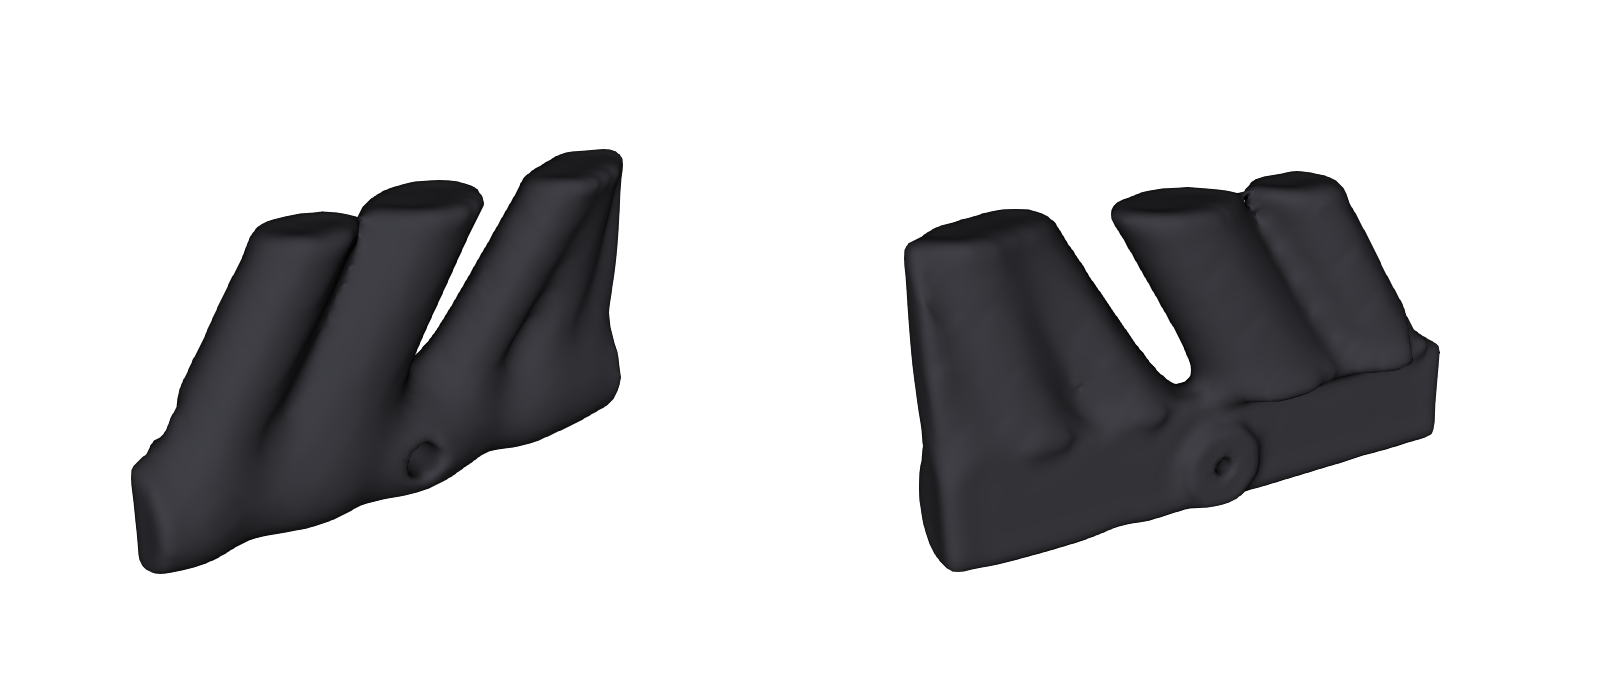
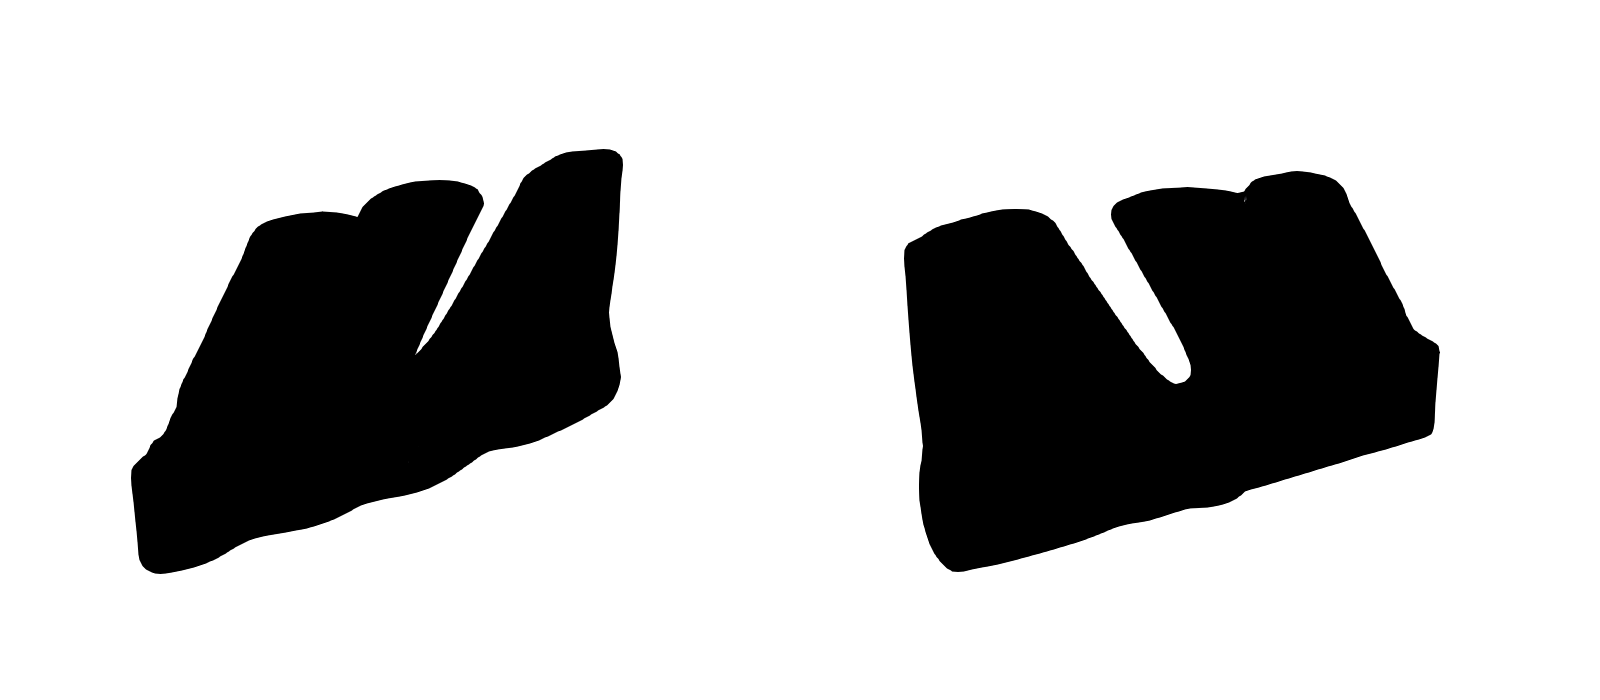
Turn the trial piece's faces outward and fail when a written STL is inside out
The organic field's surface came out with its triangles facing inwards, so
the trial STL had a negative volume. A slicer may read such a part as a
hole. organic_trial.py now reverses the faces when the signed volume is
negative and exits 1 if the written file still reads negative.

Verified: organic_trial.py exit 0; the STL read back with trimesh: closed,
one piece, +76.4 cm3 (was -76.4), 27 x 110 x 61 mm. The first attempt at
the fix left the volume negative and the new check caught it.

Changed region(s): [[0.5625, 0.24, 0.9062, 0.81], [0.0625, 0.21, 0.4062, 0.84]]

diff --git a/cad_b6/organic_trial.py b/cad_b6/organic_trial.py
@@ -12,6 +12,7 @@ import os
 import sys
 
 import numpy as np
+import trimesh
 
 sys.path.insert(0, os.path.dirname(os.path.abspath(__file__)))
 import cadquery as cq  # noqa: F401  (before vtk, see render_vtk.py)
@@ -57,7 +58,25 @@ def largest_piece(poly):
     clean = vtk.vtkCleanPolyData()
     clean.SetInputConnection(tri.GetOutputPort())
     clean.Update()
-    return clean.GetOutput(), n
+    out = clean.GetOutput()
+    # the field's surface comes out with its faces turned inwards (a negative volume); a slicer may take an inside-out part for a hole, so the faces are turned to look outwards
+    if signed_volume(out) < 0:
+        rev = vtk.vtkReverseSense()
+        rev.SetInputData(out)
+        rev.ReverseCellsOn()
+        rev.ReverseNormalsOff()
+        rev.Update()
+        out = rev.GetOutput()
+    return out, n
+
+
+def signed_volume(poly):
+    """mm3, positive when the triangles' faces look outwards."""
+    from vtk.util.numpy_support import vtk_to_numpy
+    pts = vtk_to_numpy(poly.GetPoints().GetData()).astype(float)
+    tri = vtk_to_numpy(poly.GetPolys().GetConnectivityArray()).reshape(-1, 3)
+    a, b, c = pts[tri[:, 0]], pts[tri[:, 1]], pts[tri[:, 2]]
+    return float(np.einsum("ij,ij->i", a, np.cross(b, c)).sum() / 6.0)
 
 
 def open_edges(poly):
@@ -137,6 +156,9 @@ def main():
             fails.append(f"ORGANIC_TRIAL {name}: the box holds {pieces} separate pieces of the layer; move the box so that the trial is one piece")
         if gaps:
             fails.append(f"ORGANIC_TRIAL {name}: the surface has {gaps} open edges, a slicer may not take it")
+        signed = float(trimesh.load(stl).volume)
+        if signed <= 0:
+            fails.append(f"ORGANIC_TRIAL {name}: the written STL's faces look inwards (signed volume {signed / 1000:.1f} cm3)")
         if not inside:
             fails.append(f"ORGANIC_TRIAL {name}: the pad {pad} is not inside the box")
     if fails:
